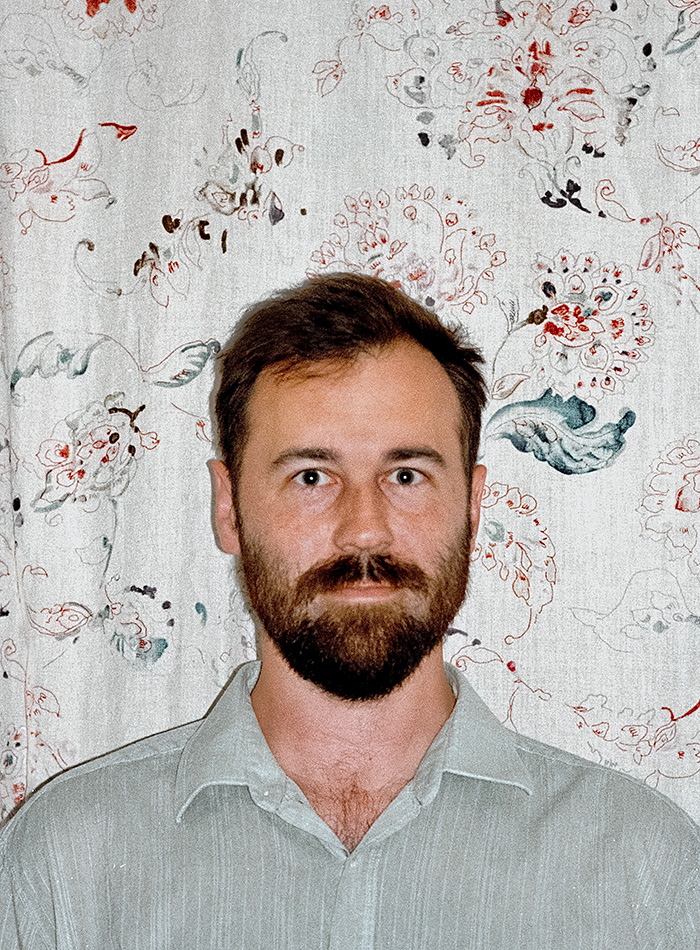
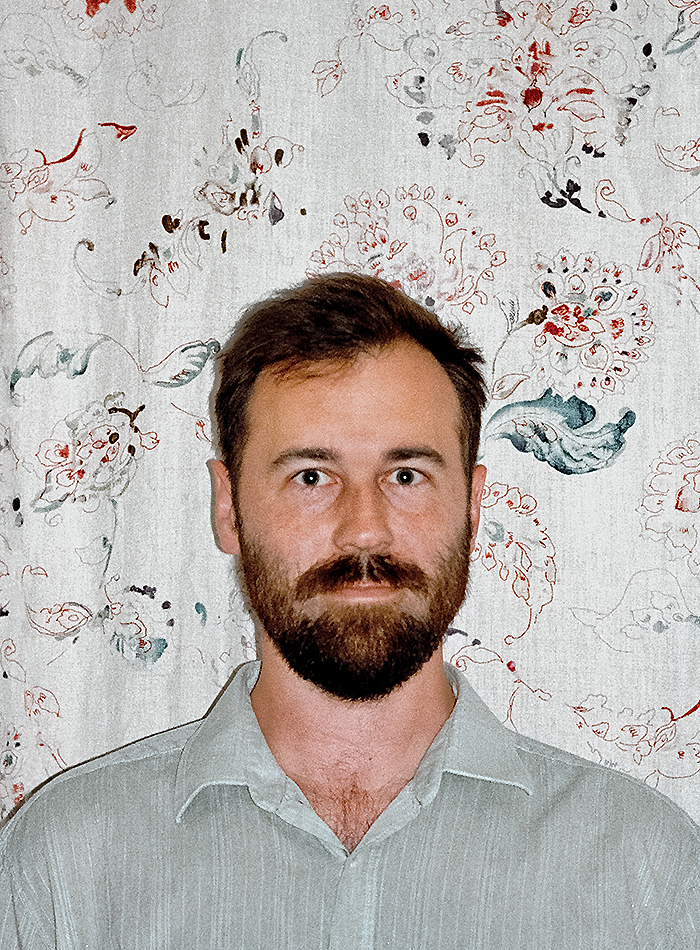
master

diff --git a/photography.html b/photography.html
@@ -38,7 +38,7 @@
   <!-- Photo grid -->
   <div class="w3-row fancybox-navigation">
   <div class="w3-row fancybox-navigation">
-      <div class="w3-third"><a href="files/images_full/img0137.jpg" data-fancybox="gallery" class="lightbox" text-title" data-caption="Vienna, 2026. &copy; André Baumgart"><img class="lazy-load" data-src="files/images_small/img0137t.jpg" style="padding: 1px; width:100%;display:none" alt=""></a></div>
+      <div class="w3-third"><a href="files/images_full/img0137.jpg" data-fancybox="gallery" class="lightbox" text-title" data-caption="Pinezići, 2026. &copy; André Baumgart"><img class="lazy-load" data-src="files/images_small/img0137t.jpg" style="padding: 1px; width:100%;display:none" alt=""></a></div>
       <div class="w3-third"><a href="files/images_full/img0129.jpg" data-fancybox="gallery" class="lightbox" text-title" data-caption="Vienna, 2025. &copy; André Baumgart"><img class="lazy-load" data-src="files/images_small/img0129t.jpg" style="padding: 1px; width:100%;display:none" alt=""></a></div>
       <div class="w3-third"><a href="files/images_full/img0132.jpg" data-fancybox="gallery" class="lightbox" text-title" data-caption="Buje, 2025. &copy; André Baumgart"><img class="lazy-load" data-src="files/images_small/img0132t.jpg" style="padding: 1px; width:100%;display:none" alt=""></a></div>
       <div class="w3-third"><a href="files/images_full/img0125.jpg" data-fancybox="gallery" class="lightbox" text-title" data-caption="Vienna, 2025. &copy; André Baumgart"><img class="lazy-load" data-src="files/images_small/img0125t.jpg" style="padding: 1px; width:100%;display:none" alt=""></a></div>